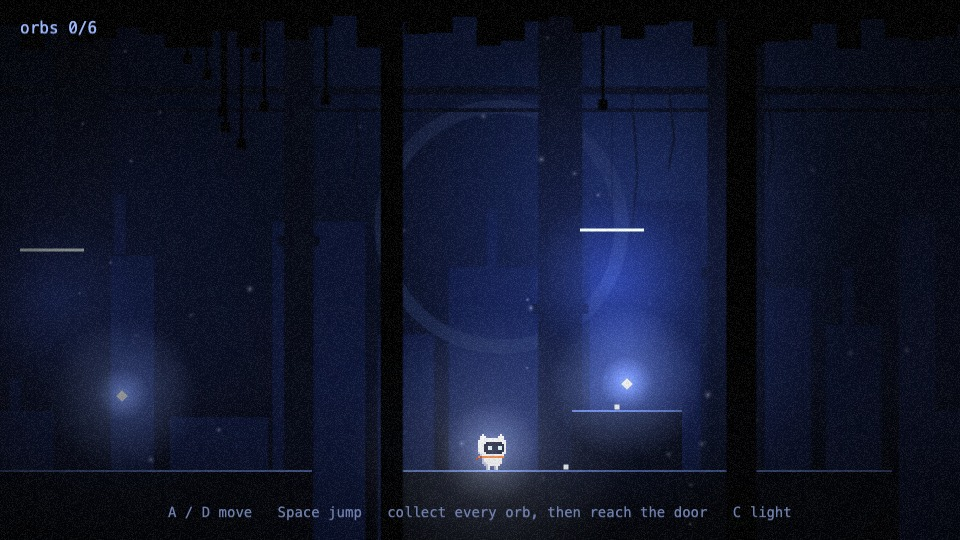
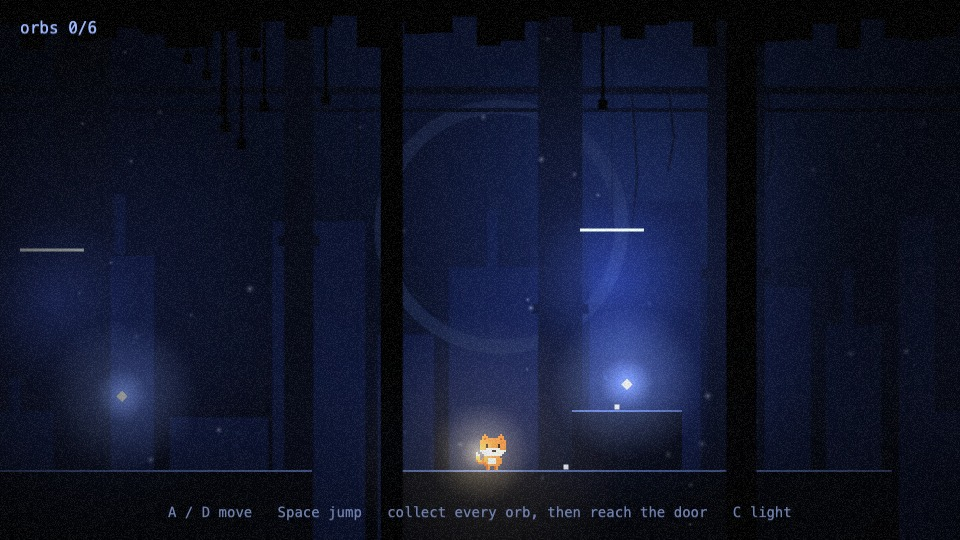
feat: redesign hero as a fox kit with a glowing tail tip

Changed region(s): [[0.4375, 0.6519, 0.5938, 0.9481], [0.625, 0.5037, 0.6562, 0.5333]]

diff --git a/src/lib/hero.ts b/src/lib/hero.ts
@@ -6,54 +6,78 @@ export const HERO_W = 16, HERO_H = 19;
 export const HERO_SCALE = 2;
 
 const PAL: Record<string, string> = {
-  W: '#f2efe6', // fur
-  w: '#b4b3cb', // fur in shadow
-  D: '#171a2c', // face
-  E: '#c9ecff', // eyes
-  O: '#e8742a', // scarf
-  o: '#a84a1a', // scarf in shadow
+  F: '#f0883a', // fur
+  f: '#b8561f', // fur in shadow
+  C: '#fff1d6', // cream muzzle, belly and tail
+  K: '#2a1a16', // eyes and nose
+  Y: '#ffe9a8', // glowing tail tip
 };
 
-// Head and body, facing right. 16 columns x 16 rows. Legs and scarf tail are added per frame.
+// A fox kit, facing right: head and body only. 16 columns x 16 rows.
+// Legs and the tail are added per frame so they can move.
 const BODY = [
-  '...W........W...',
-  '..WWW......WWW..',
-  '..WWWWWWWWWWWW..',
-  '.WWWWWWWWWWWWWW.',
-  '.WWWWDDDDDDDDWW.',
-  '.WWWDDDDDDDDDDW.',
-  '.WWWDDEEDDDEEDW.',
-  '.WWWDDEEDDDEEDW.',
-  '.WWWDDDDDDDDDDW.',
-  '.wWWWDDDDDDDDWW.',
-  '..wWWWWWWWWWWW..',
-  '..oOOOOOOOOOOO..',
-  '...wWWWWWWWWW...',
-  '...wWWWWWWWWW...',
-  '...wwWWWWWWWW...',
-  '....wwWWWWWW....',
+  '....F.......F...',
+  '...FFF.....FFF..',
+  '...FfFFFFFFFfF..',
+  '..FFFFFFFFFFFFF.',
+  '..FFFFFFFFFFFFF.',
+  '..FFFKFFFFFKFFF.',
+  '..FFFKFFFFFKFFF.',
+  '..FFFCCCCCCCFFF.',
+  '..CCCCCCKKCCCCC.',
+  '...CCCCCCCCCCC..',
+  '....CCCCCCCCC...',
+  '....FFFFFFFF....',
+  '...fFFCCCCFFF...',
+  '...fFFCCCCFFF...',
+  '...ffFCCCCFFF...',
+  '....ffFFFFFF....',
 ];
 
+type Px = [x: number, y: number, c: 'F' | 'f' | 'C' | 'Y'];
+
 interface Frame {
-  dy: number;                          // whole body shifted down (+) or up (-): the bob / stretch
-  legs: [x: number, top: number, bottom: number][];   // 2px-wide legs, rows in cell space
-  tail: [x: number, y: number, c: 'O' | 'o'][];       // scarf tail pixels, rows in BODY space
+  dy: number;                                        // whole body shifted down (+) or up (-): the bob / stretch
+  legs: [x: number, top: number, bottom: number][];  // 2px-wide legs, rows in cell space
+  tail: Px[];                                        // tail pixels, rows in BODY space
   blink?: boolean;
 }
 
 const LEGS_STAND: Frame['legs'] = [[5, 17, 18], [9, 17, 18]];
-const TAIL_REST: Frame['tail'] = [[1, 11, 'O'], [0, 12, 'o']];
+
+// The tail carries the light: orange base, cream band, glowing tip.
+const TAIL_UP: Px[] = [ // curled up behind the back (standing)
+  [2, 14, 'f'], [2, 13, 'F'], [1, 14, 'f'], [1, 13, 'F'], [1, 12, 'F'], [0, 13, 'f'],
+  [0, 12, 'F'], [0, 11, 'F'], [1, 11, 'F'], [0, 10, 'C'], [1, 10, 'C'], [0, 9, 'Y'],
+];
+const TAIL_SWAY: Px[] = [ // same curl, tip tilted back a little
+  [2, 14, 'f'], [2, 13, 'F'], [1, 14, 'f'], [1, 13, 'F'], [1, 12, 'F'], [0, 13, 'f'],
+  [0, 12, 'F'], [0, 11, 'C'], [1, 11, 'F'], [0, 10, 'Y'],
+];
+const TAIL_BACK_HI: Px[] = [ // streaming behind while running
+  [2, 14, 'f'], [2, 13, 'F'], [1, 13, 'F'], [1, 12, 'F'], [0, 12, 'C'], [0, 11, 'C'], [0, 10, 'Y'],
+];
+const TAIL_BACK_LO: Px[] = [
+  [2, 14, 'f'], [2, 13, 'F'], [1, 14, 'f'], [1, 13, 'F'], [0, 13, 'C'], [0, 12, 'C'], [0, 11, 'Y'],
+];
+const TAIL_DOWN: Px[] = [ // trails below on the way up
+  [2, 13, 'F'], [2, 14, 'F'], [1, 14, 'F'], [1, 15, 'F'], [1, 16, 'f'], [0, 15, 'C'], [0, 16, 'C'], [0, 17, 'Y'],
+];
+const TAIL_FLY: Px[] = [ // whips up on the way down
+  [2, 13, 'F'], [2, 12, 'F'], [1, 12, 'F'], [1, 11, 'F'], [0, 11, 'f'], [1, 10, 'F'],
+  [0, 10, 'F'], [0, 9, 'C'], [1, 9, 'C'], [0, 8, 'Y'],
+];
 
 const FRAMES: Frame[] = [
-  /* 0 idle       */ { dy: 0, legs: LEGS_STAND, tail: TAIL_REST },
-  /* 1 idle (dip) */ { dy: 1, legs: [[5, 18, 18], [9, 18, 18]], tail: TAIL_REST },
-  /* 2 blink      */ { dy: 0, legs: LEGS_STAND, tail: TAIL_REST, blink: true },
-  /* 3 run a      */ { dy: 0, legs: [[3, 17, 17], [10, 17, 18]], tail: [[1, 11, 'O'], [0, 10, 'o']] },
-  /* 4 run b      */ { dy: 1, legs: [[6, 18, 18], [8, 18, 18]], tail: [[1, 10, 'O'], [0, 10, 'o']] },
-  /* 5 run c      */ { dy: 0, legs: [[4, 17, 18], [11, 17, 17]], tail: [[1, 11, 'O'], [0, 12, 'o']] },
-  /* 6 run d      */ { dy: 1, legs: [[6, 18, 18], [8, 18, 18]], tail: [[1, 10, 'O'], [0, 11, 'o']] },
-  /* 7 jump       */ { dy: -1, legs: [[5, 16, 17], [9, 16, 17]], tail: [[1, 12, 'O'], [1, 13, 'O'], [0, 14, 'o']] },
-  /* 8 fall       */ { dy: 0, legs: [[4, 17, 18], [10, 17, 18]], tail: [[1, 10, 'O'], [0, 9, 'O'], [0, 8, 'o']] },
+  /* 0 idle       */ { dy: 0, legs: LEGS_STAND, tail: TAIL_UP },
+  /* 1 idle (dip) */ { dy: 1, legs: [[5, 18, 18], [9, 18, 18]], tail: TAIL_SWAY },
+  /* 2 blink      */ { dy: 0, legs: LEGS_STAND, tail: TAIL_UP, blink: true },
+  /* 3 run a      */ { dy: 0, legs: [[3, 17, 17], [10, 17, 18]], tail: TAIL_BACK_HI },
+  /* 4 run b      */ { dy: 1, legs: [[6, 18, 18], [8, 18, 18]], tail: TAIL_BACK_LO },
+  /* 5 run c      */ { dy: 0, legs: [[4, 17, 18], [11, 17, 17]], tail: TAIL_BACK_HI },
+  /* 6 run d      */ { dy: 1, legs: [[6, 18, 18], [8, 18, 18]], tail: TAIL_BACK_LO },
+  /* 7 jump       */ { dy: -1, legs: [[5, 16, 17], [9, 16, 17]], tail: TAIL_DOWN },
+  /* 8 fall       */ { dy: 0, legs: [[4, 17, 18], [10, 17, 18]], tail: TAIL_FLY },
 ];
 
 function drawFrame(ctx: CanvasRenderingContext2D, ox: number, f: Frame): void {
@@ -65,12 +89,12 @@ function drawFrame(ctx: CanvasRenderingContext2D, ox: number, f: Frame): void {
   BODY.forEach((row, y) => {
     [...row].forEach((c, x) => {
       if (c === '.') return;
-      if (c === 'E' && f.blink && y === 6) c = 'D'; // half-closed eyes
+      if (c === 'K' && f.blink && y === 5) c = 'F'; // half-closed eyes
       px(x, y + top, c);
     });
   });
   for (const [x, a, b] of f.legs) {
-    for (let y = a; y <= b; y++) { px(x, y, 'w'); px(x + 1, y, 'W'); }
+    for (let y = a; y <= b; y++) { px(x, y, 'f'); px(x + 1, y, 'F'); }
   }
   for (const [x, y, c] of f.tail) px(x, y + top, c);
 }

diff --git a/src/scenes/GameScene.ts b/src/scenes/GameScene.ts
@@ -137,10 +137,10 @@ export class GameScene extends Phaser.Scene {
     this.physics.add.collider(this.player, this.solids);
     // halo sits behind the sprite so it lights the air around the hero without washing out the pixels
     this.playerGlow = this.add.image(0, 0, 'glow').setScale(1.1).setBlendMode(Phaser.BlendModes.ADD)
-      .setTint(0xcfdcff).setAlpha(0.4).setDepth(19);
-    // a faint second glow on top keeps the hero the brightest thing on screen, even in dark corners
-    this.heroShine = this.add.image(0, 0, 'glow').setScale(0.45).setBlendMode(Phaser.BlendModes.ADD)
-      .setTint(0xcfdcff).setAlpha(0.22).setDepth(21);
+      .setTint(0xffd9a8).setAlpha(0.32).setDepth(19);
+    // the fox's tail tip is its lantern: a small warm glow that follows the tip
+    this.heroShine = this.add.image(0, 0, 'glow').setScale(0.4).setBlendMode(Phaser.BlendModes.ADD)
+      .setTint(0xffe9a8).setAlpha(0.6).setDepth(21);
   }
 
 
@@ -275,8 +275,12 @@ export class GameScene extends Phaser.Scene {
     }
 
     this.hero.setPosition(this.player.x, this.player.y + 13);
-    this.heroShine.setPosition(this.player.x, this.player.y - 6);
-    this.playerGlow.setPosition(this.player.x, this.player.y - 4).setAlpha(0.4 + Math.sin(time * 0.004) * 0.05);
+    // tail tip sits behind the fox and moves with the pose: low on the way up, high on the way down
+    const pose = this.hero.anims.currentAnim?.key;
+    const tipY = pose === 'hero-jump' ? -3 : pose === 'hero-fall' ? -21 : -17;
+    this.heroShine.setPosition(this.hero.x + (this.hero.flipX ? 14 : -14), this.hero.y + tipY)
+      .setAlpha(0.55 + Math.sin(time * 0.006) * 0.1);
+    this.playerGlow.setPosition(this.player.x, this.player.y - 4).setAlpha(0.32 + Math.sin(time * 0.004) * 0.04);
 
     if (this.player.y > H + 120) this.respawn();
   }
